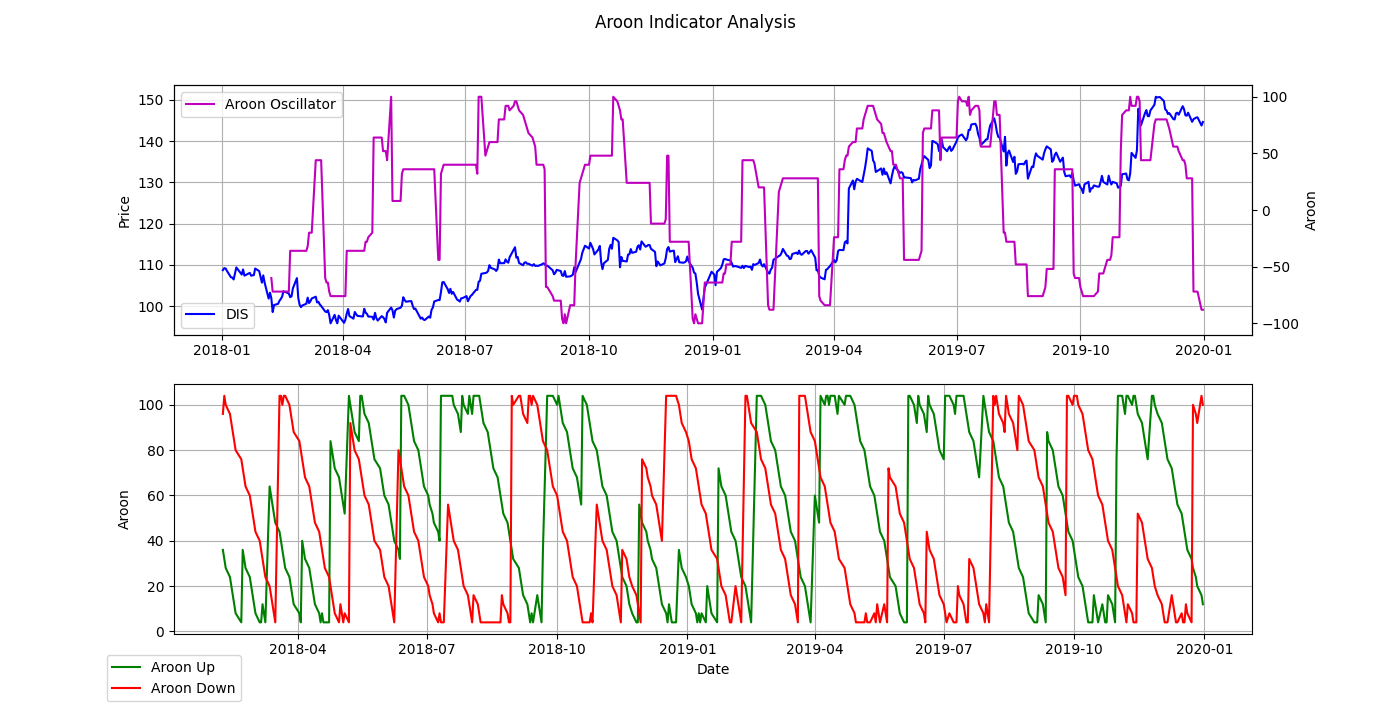
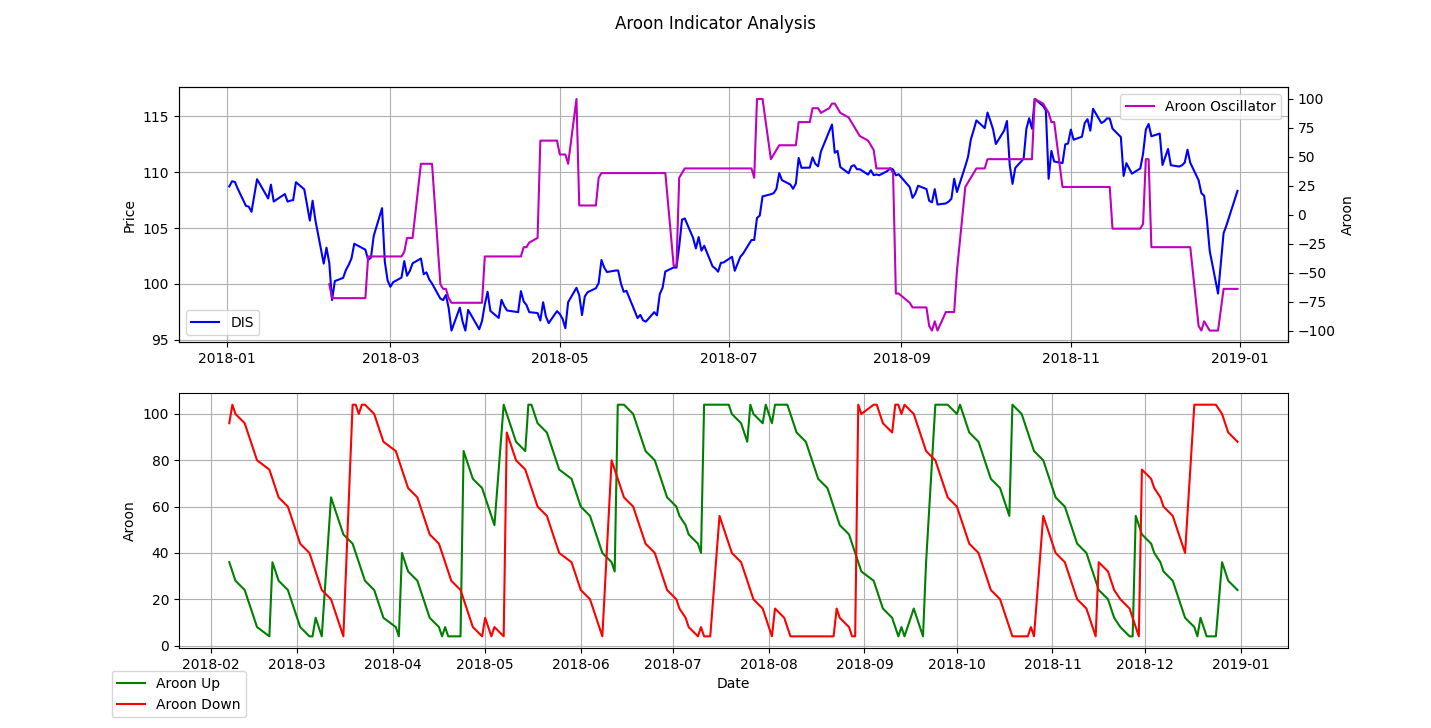
updated figs

diff --git a/tech_ind.py b/tech_ind.py
@@ -18,7 +18,7 @@ import matplotlib.pyplot as plt
 # If you need to pull without saving your local changes: git stash
 
 data = get_data(
-    "1/1/2018", "12/31/2019", ["DIS"], column_name="Adj Close", include_spy=False
+    "1/1/2018", "1/1/2019", ["DIS"], column_name="Adj Close", include_spy=False
 )
 
 
@@ -168,7 +168,7 @@ def calc_aroon(prices, n):
 
 def test():
 
-    # calc_ema(data, 5)
+    # calc_ema(data, 25)
     # calc_aroon(data, 25)
     # calc_BB(data, 30)
 
